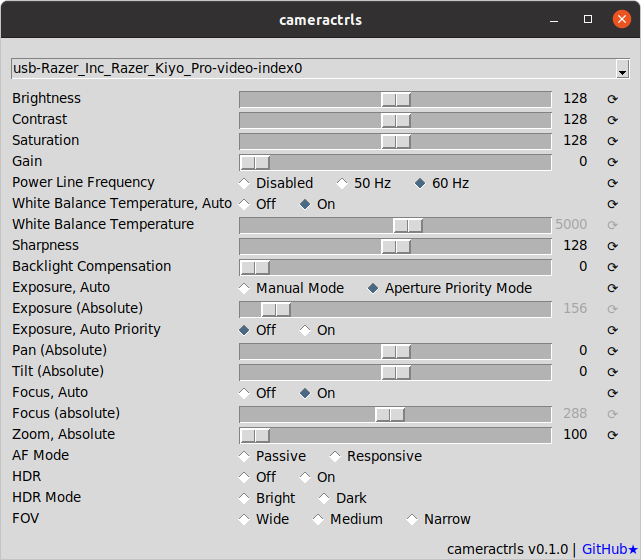
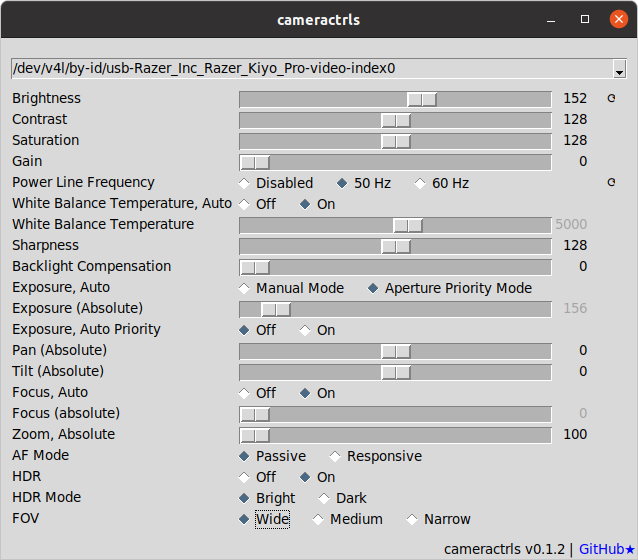
v0.1.2

diff --git a/cameractrlsgui.py b/cameractrlsgui.py
@@ -10,7 +10,7 @@ except Exception as e:
     sys.exit(3)
 
 ghurl = 'https://github.com/soyersoyer/cameractrls'
-version = 'v0.1.1'
+version = 'v0.1.2'
 
 v4ldirs = {
     '/dev/v4l/by-id/': '',

diff --git a/CHANGELOG.md b/CHANGELOG.md
@@ -1,5 +1,10 @@
 # Changelog
 
+## [0.1.2] - 2022-06-08
+
+### Added
+- Hide the default buttons when the values are the defaults
+
 ## [0.1.1] - 2022-06-07
 
 ### Added
